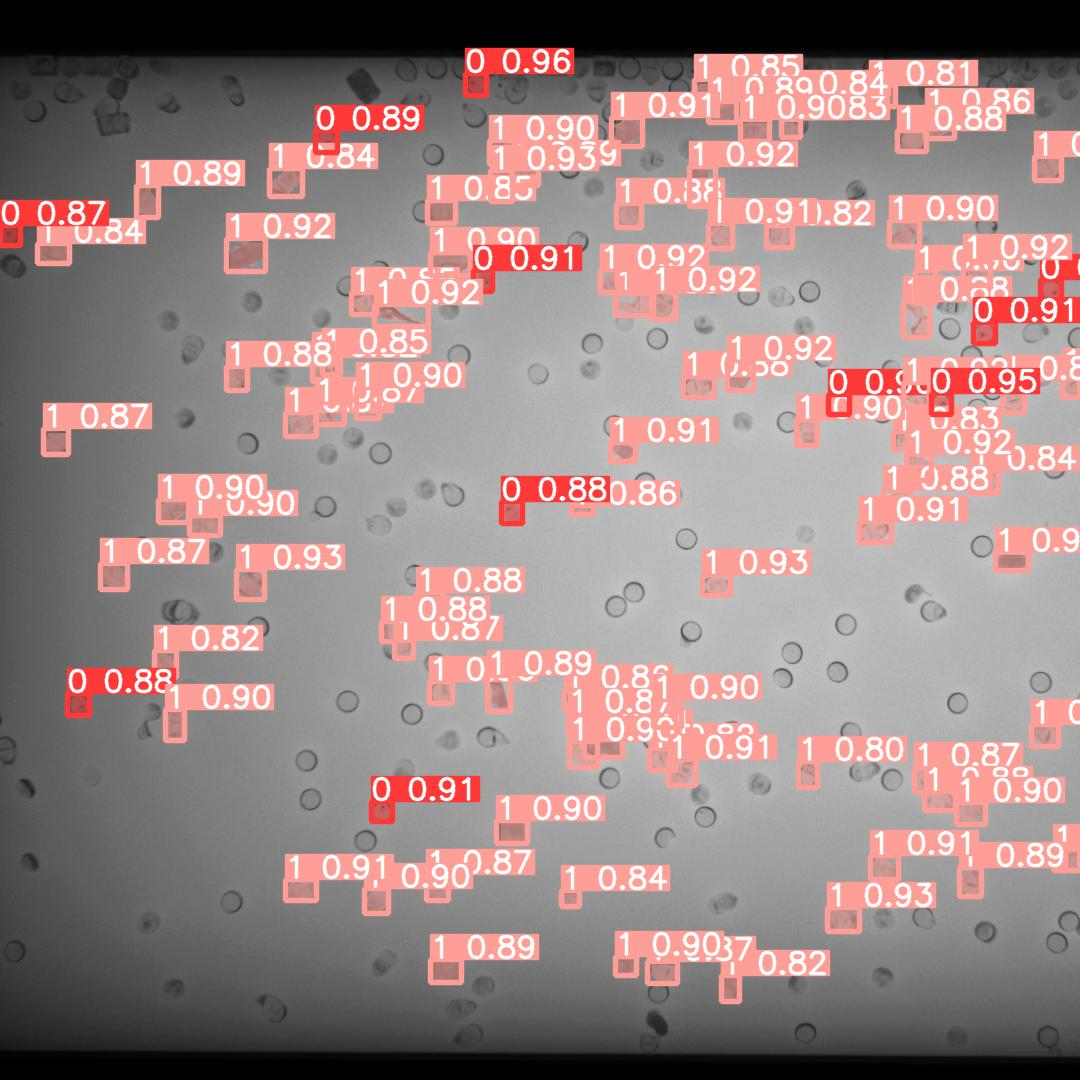
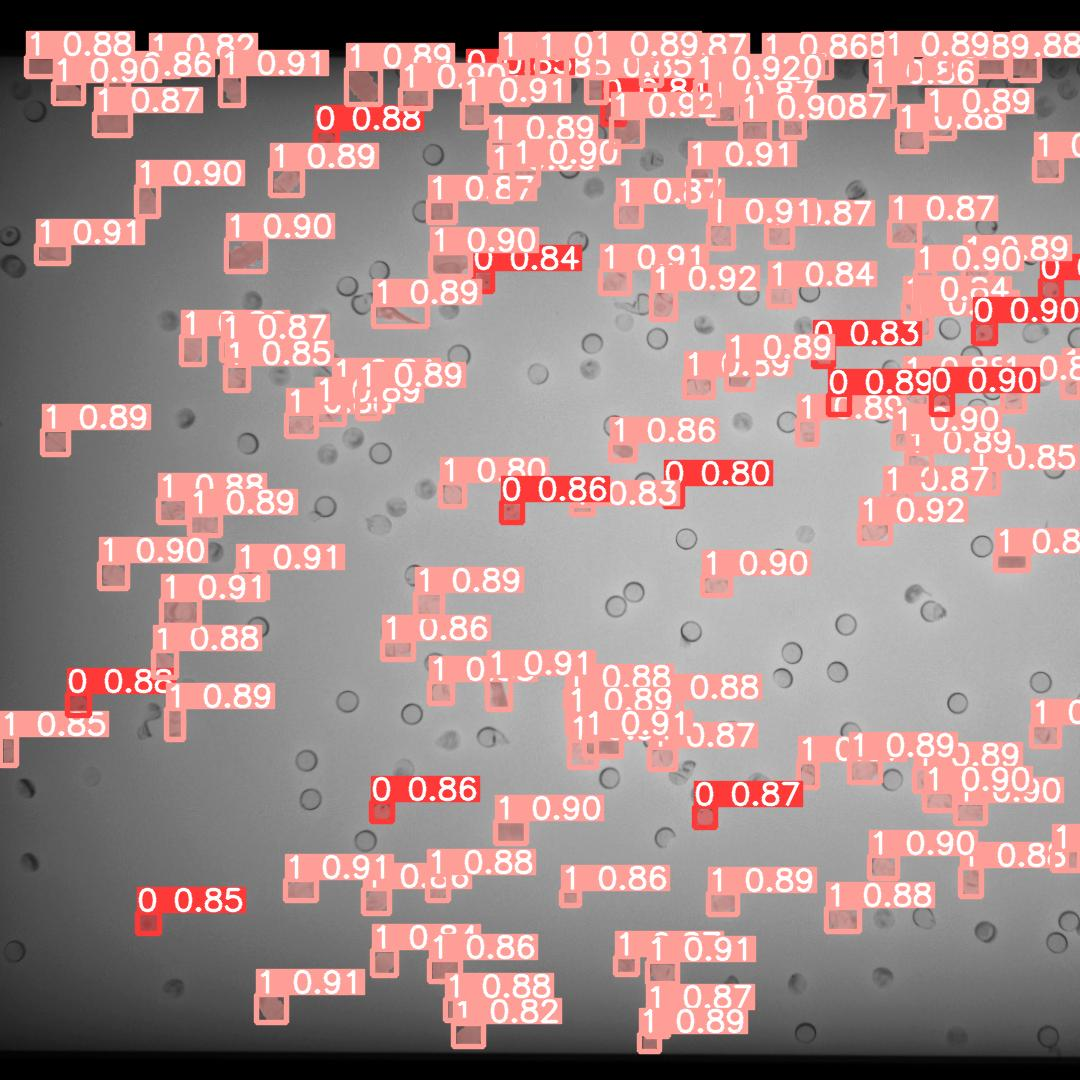
20231226-001

diff --git a/train.py b/train.py
@@ -4,17 +4,17 @@ import shutil
 
 from roboflow import Roboflow
 
-if not os.path.exists("datasets\\640_two_class_full_annotation-3"):
+if not os.path.exists("datasets\\640_two_class_full_annotation-4"):
    
     rf = Roboflow(api_key="bxW7hooY5jiknZS3GIxI")
     project = rf.workspace("i4umaket").project("640_two_class_full_annotation")
-    dataset = project.version(3).download("yolov8")
+    dataset = project.version(4).download("yolov8")
 
-    shutil.move("640_two_class_full_annotation-3", "datasets\\640_two_class_full_annotation-3\\")
+    shutil.move("640_two_class_full_annotation-4", "datasets\\640_two_class_full_annotation-4\\")
 
 # 모델을 로드하세요..
-model = YOLO('yolov8m.yaml')  # YAML에서 새 모델 구축
-model = YOLO('yolov8m.pt')  # 사전 훈련된 모델 로드 (훈련을 위해 권장됨)
+model = YOLO('yolov8m-seg.yaml')  # YAML에서 새 모델 구축
+model = YOLO('yolov8m-seg.pt')  # 사전 훈련된 모델 로드 (훈련을 위해 권장됨)
 # model = YOLO('yolov8m.yaml').load('yolov8n.pt')  # YAML에서 구축 및 가중치 전달
 
 
@@ -24,7 +24,7 @@ if __name__ == '__main__':
     print("training start")
     # data.yaml안에 있는 경로 기본 설정 "C:\Users\<user>\AppData\Roaming\Ultralytics\settings.yaml"
     # datasets_dir: C:\workspace\maketek "in settings.yaml"
-    results = model.train(data='datasets\\640_two_class_full_annotation-3\\data.yaml', epochs=200, imgsz=640)
+    results = model.train(data='datasets\\640_two_class_full_annotation-4\\data.yaml', epochs=200, imgsz=640)
 
     # data.yaml 안의 image파일 경로
     # test: test/images

diff --git a/predict_video.py b/predict_video.py
@@ -2,10 +2,11 @@ import cv2
 from ultralytics import YOLO
 
 # Load the YOLOv8 model
-model = YOLO('model\\two_class_full_best_detect.pt')
+model = YOLO('model\\two_class_full_best_seg-4.pt')
 
 # Open the video file
-video_path = "mp4\\deform_spot__output_02.mp4"
+# video_path = "mp4\\deform_spot__output_02.mp4"
+video_path = "mp4\\raw_output_03.mp4"
 cap = cv2.VideoCapture(video_path)
 
 # Loop through the video frames
@@ -15,7 +16,7 @@ while cap.isOpened():
 
     if success:
         # Run YOLOv8 inference on the frame
-        results = model(frame, save=False, imgsz=1080, conf=0.90)
+        results = model(frame, save=False, imgsz=1080, conf=0.80)
 
         # Visualize the results on the frame
         annotated_frame = results[0].plot()

diff --git a/ultralytics/predict_plotting.py b/ultralytics/predict_plotting.py
@@ -3,7 +3,7 @@ from ultralytics import YOLO
 
 # Load a pretrained YOLOv8n model
 # model = YOLO('C:\\workspace\\maketek\\runs\\detect\\train3\\weights\\best.pt')  # pretrained YOLOv8n model
-model = YOLO('model\\two_class_full_best_seg.pt')  # pretrained YOLOv8n model
+model = YOLO('model\\two_class_full_best_seg-4.pt')  # pretrained YOLOv8n model
 
 # Run inference on 'bus.jpg'
 image = 'C:\\workspace\\maketek\\raw_151651.jpg'
